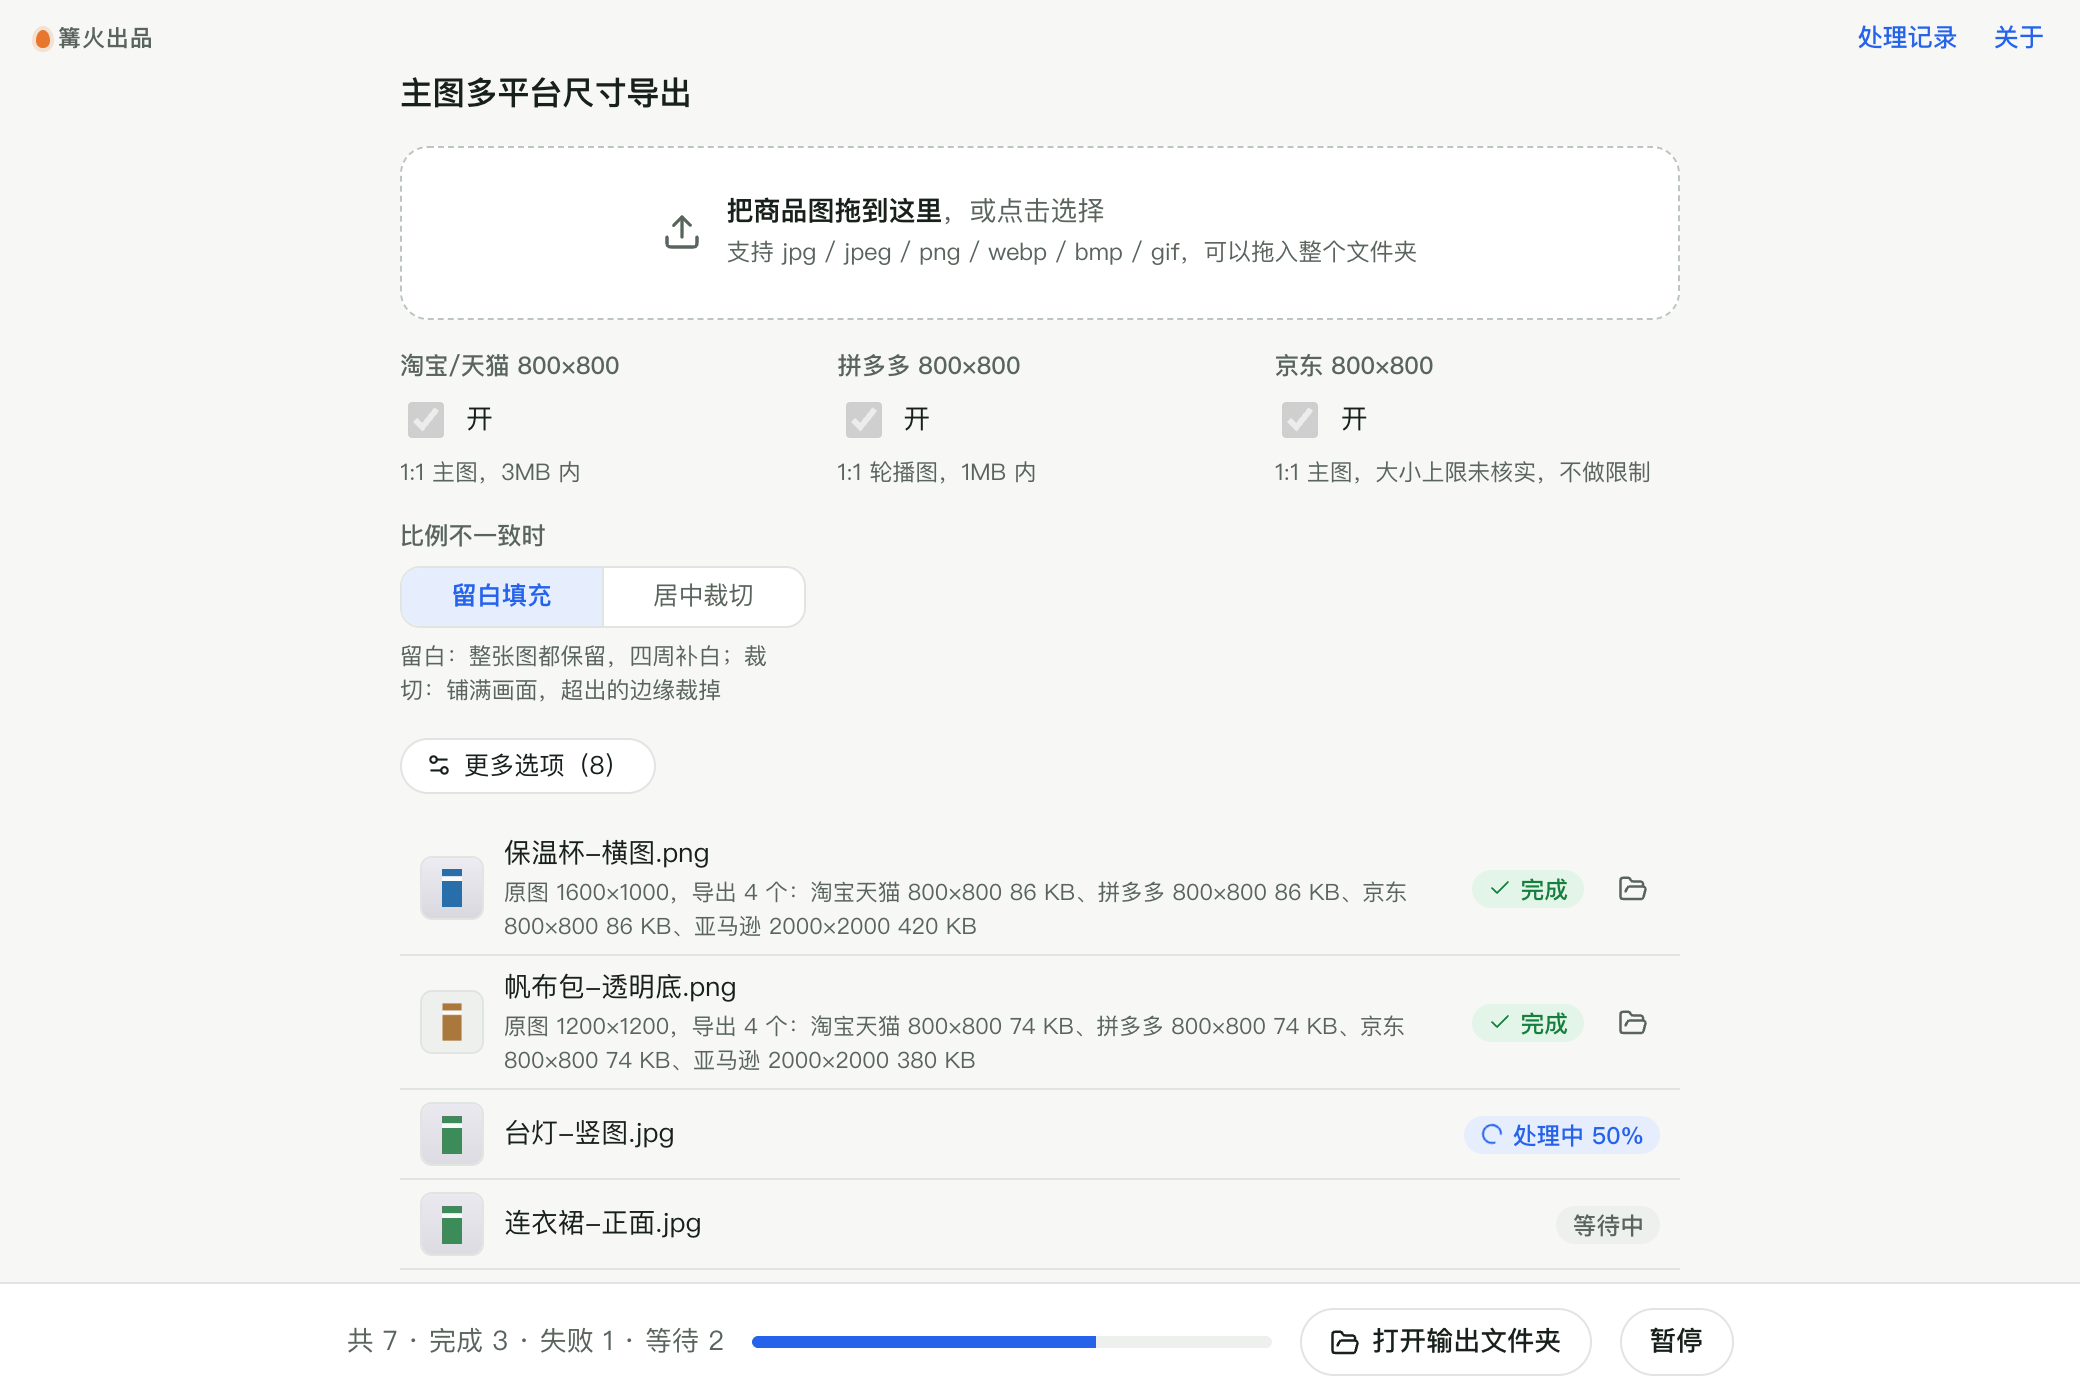
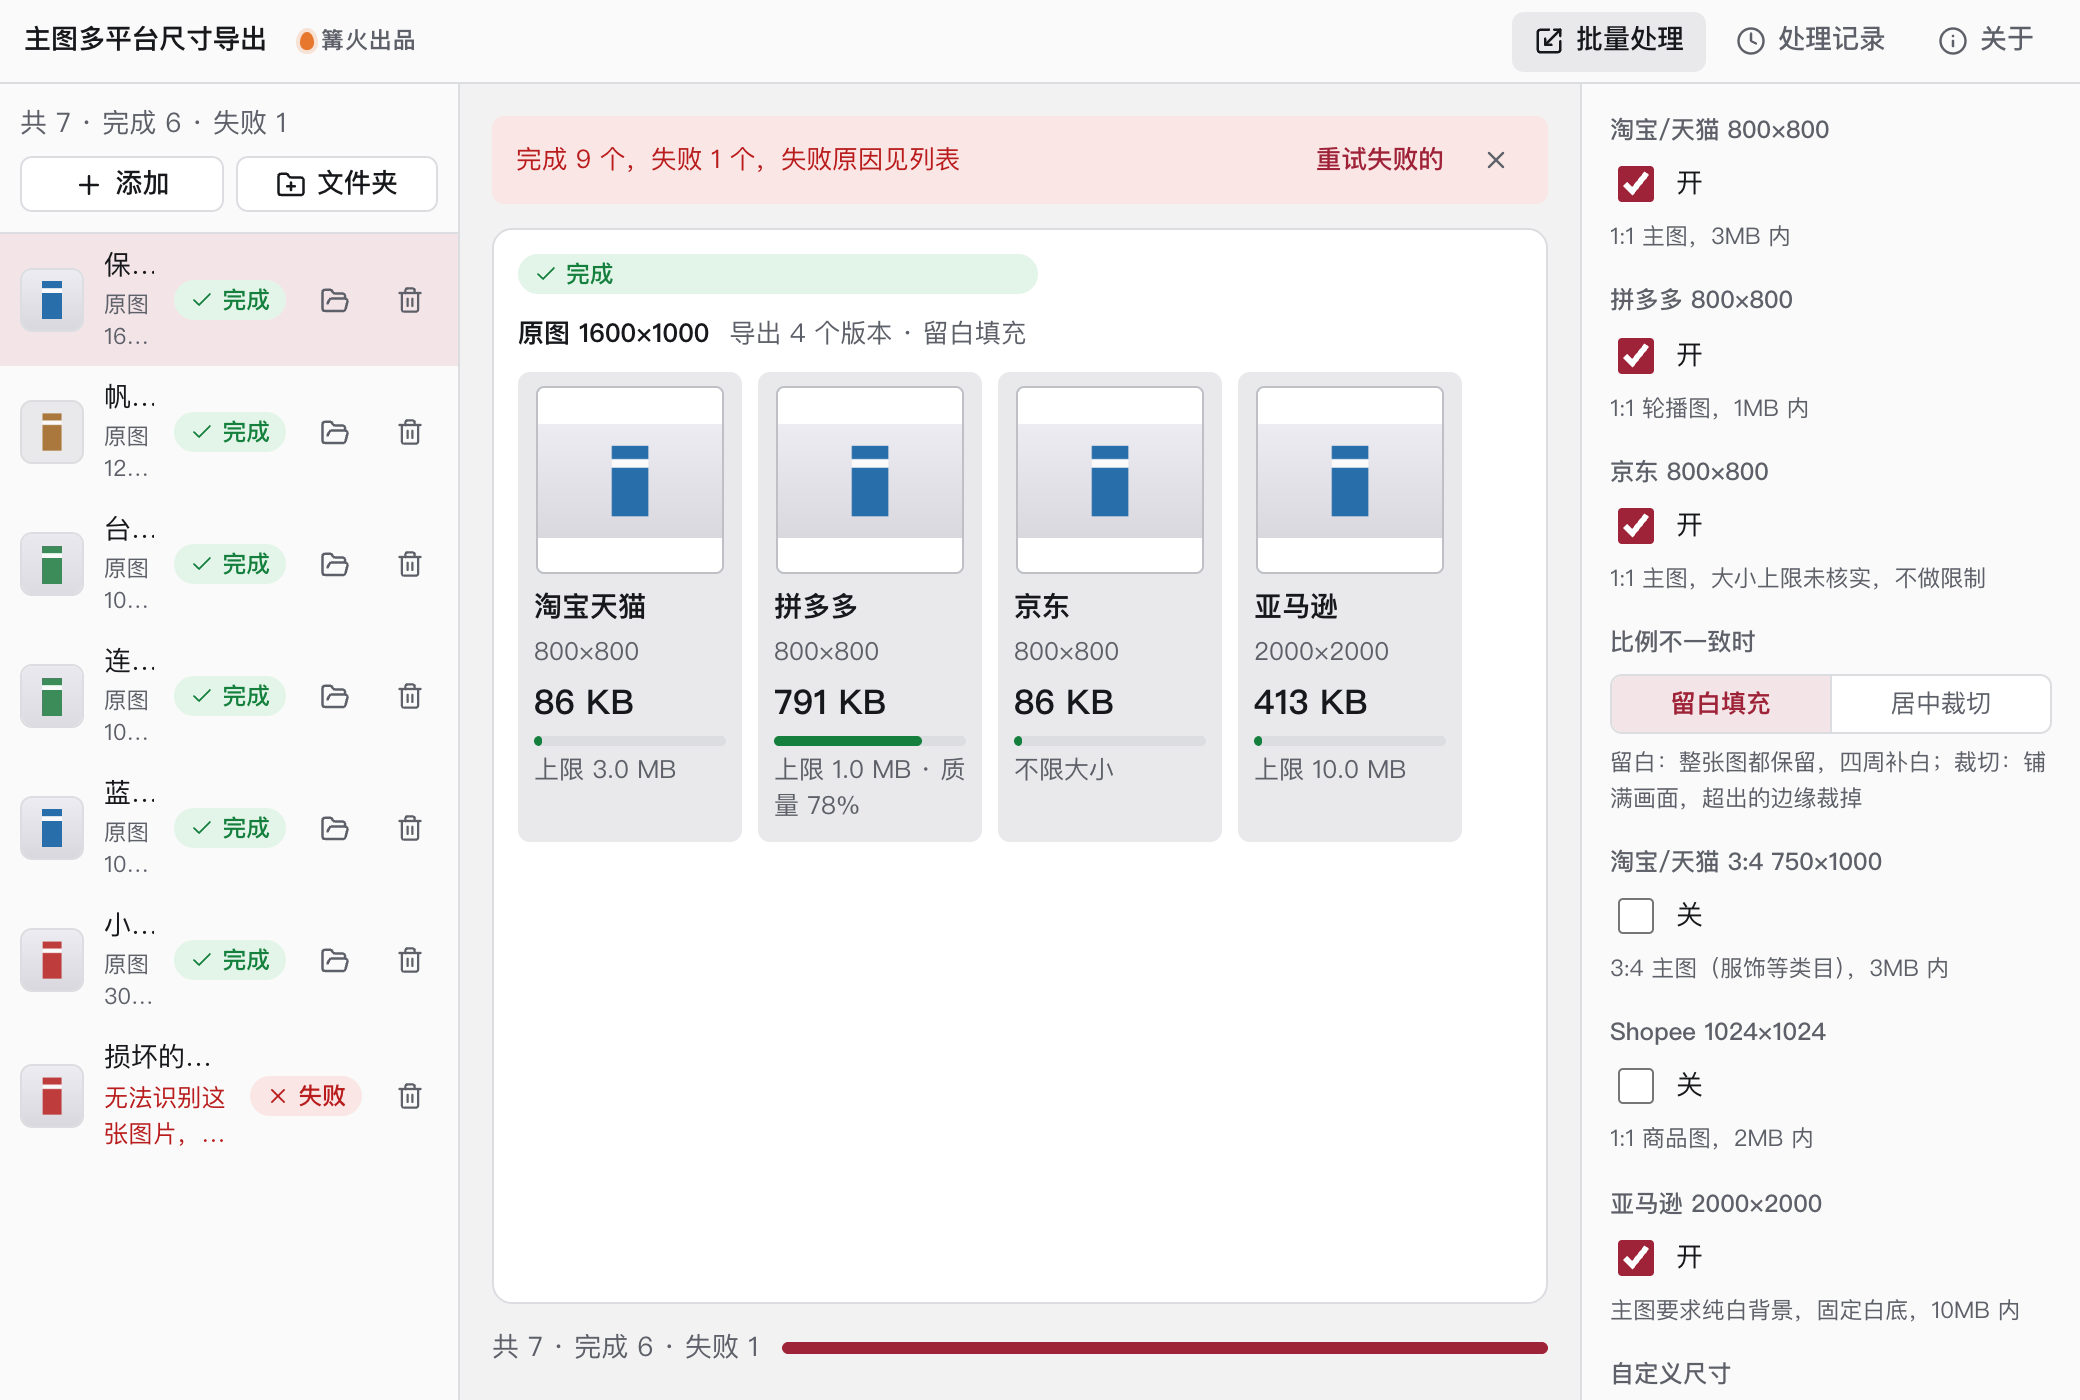
打磨界面：按平台对照的结果展示、专属空状态、全中文 (0.2.0)

diff --git a/src/tool/ui.tsx b/src/tool/ui.tsx
@@ -1,0 +1,88 @@
+// 界面：空状态（一张图 → 各平台一份）和单张结果（每个平台一格：缩略图、尺寸、文件大小占上限的比例）。
+import { ArrowRight, TriangleAlert } from 'lucide-react';
+import type { InputItem, ItemResult } from '../kit/types';
+import { fileSrc } from '../kit/platform';
+import { PRESETS, formatBytes } from './core';
+import './tool.css';
+
+/** 随结果带出的明细，只用来画结果，不写入文件 */
+export interface ResizeOut {
+  label: string;
+  w: number;
+  h: number;
+  bytes: number;
+  /** 文件大小上限（字节），0 表示不限制 */
+  maxBytes: number;
+  /** 质量被降低时的最终质量 */
+  quality?: number;
+}
+export interface ResizeData {
+  srcW: number;
+  srcH: number;
+  fit: 'pad' | 'crop';
+  white: boolean;
+  outs: ResizeOut[];
+  upscaled: boolean;
+}
+
+const BOX = 92;
+const frame = (w: number, h: number, box = BOX) => {
+  const k = box / Math.max(w, h);
+  return { width: Math.round(w * k), height: Math.round(h * k) };
+};
+
+export function Empty() {
+  return (
+    <div className="mr-empty">
+      <div className="mr-empty-hd">
+        <h2>一张主图，各平台尺寸一次出齐</h2>
+        <p>按平台分文件夹导出；比例不合就留白或裁切，JPG 超过大小上限会自动降质量。全部在本机完成。</p>
+      </div>
+      <div className="mr-flow" aria-hidden="true">
+        <div className="mr-src"><span className="mr-pic" style={frame(1600, 1000, 104)} /><small>原图</small></div>
+        <ArrowRight size={20} className="mr-arrow" />
+        <div className="mr-tiles">
+          {PRESETS.map((p) => (
+            <div key={p.key} className="mr-tile">
+              <span className="mr-frame" style={frame(p.w, p.h, 58)}><span className="mr-pic" /></span>
+              <b>{p.key === 'taobao34' ? '淘宝天猫 3:4' : p.folder}</b>
+              <small>{p.w}×{p.h}</small>
+              <small className="mr-lim">{p.maxBytes ? `≤ ${formatBytes(p.maxBytes)}` : '不限大小'}</small>
+            </div>
+          ))}
+        </div>
+      </div>
+    </div>
+  );
+}
+
+export function ResultBody({ item, result }: { item: InputItem; result: ItemResult }) {
+  const d = result.data as ResizeData | undefined;
+  if (!d) return <p className="mr-plain">{result.summary}</p>;
+  return (
+    <div className="mr-result">
+      <div className="mr-head">
+        <b className="k-num">原图 {d.srcW}×{d.srcH}</b>
+        <span className="k-muted">导出 {d.outs.length} 个版本 · {d.fit === 'crop' ? '居中裁切' : '留白填充'}</span>
+        {d.upscaled && <span className="mr-warn"><TriangleAlert size={13} />原图偏小，已放大</span>}
+      </div>
+      <div className="mr-outs">
+        {d.outs.map((o) => {
+          const ratio = o.maxBytes ? Math.min(1, o.bytes / o.maxBytes) : 0;
+          return (
+            <div key={`${o.label}-${o.w}x${o.h}`} className="mr-out">
+              <span className="mr-frame" style={{ ...frame(o.w, o.h), background: d.white ? '#fff' : undefined }}>
+                {item.path && <img src={fileSrc(item.path)} alt="" style={{ objectFit: d.fit === 'crop' ? 'cover' : 'contain' }} />}
+              </span>
+              <b>{o.label.replace(/ \d+×\d+$/, '')}</b>
+              <small className="k-num">{o.w}×{o.h}</small>
+              <span className="mr-size k-num">{formatBytes(o.bytes)}</span>
+              <span className="mr-meter" title={o.maxBytes ? `上限 ${formatBytes(o.maxBytes)}` : '不限制大小'}><i style={{ width: `${Math.max(4, ratio * 100)}%` }} className={ratio > 0.9 ? 'hot' : ''} /></span>
+              <small className="k-muted">{o.maxBytes ? `上限 ${formatBytes(o.maxBytes)}` : '不限大小'}{o.quality ? ` · 质量 ${o.quality}%` : ''}</small>
+            </div>
+          );
+        })}
+      </div>
+    </div>
+  );
+}

diff --git a/src/tool/index.ts b/src/tool/index.ts
@@ -3,6 +3,7 @@ import { Scaling as ScalingAsIcon } from 'lucide-react';
 import type { BatchTool, Field, Params, RunContext } from '../kit/types';
 import { ensureDir } from '../kit/platform';
 import { loadImage } from './canvas';
+import { Empty, ResultBody, type ResizeData, type ResizeOut } from './ui';
 import { PRESETS, fitToLimit, formatBytes, outputFileName, parseCustomSizes, planOutputs } from './core';
 
 const IMAGE_EXT = ['jpg', 'jpeg', 'png', 'webp', 'bmp', 'gif'];
@@ -23,6 +24,8 @@ const tool: BatchTool = {
   type: 'media',
   mode: 'batch',
   resultView: 'list',
+  Empty,
+  ResultBody,
   concurrency: 2,
   accept: { label: '商品图', extensions: IMAGE_EXT },
   params: [
@@ -30,7 +33,7 @@ const tool: BatchTool = {
     ...presetFields.slice(0, 3),
     fitField,
     ...presetFields.slice(3),
-    { key: 'custom', label: '自定义尺寸', type: 'text', default: '', placeholder: '例如 1200x1200, 750x1000，不需要就留空', help: '多个尺寸用逗号隔开，导出到「自定义尺寸」文件夹' },
+    { key: 'custom', label: '自定义尺寸', type: 'text', default: '', placeholder: '例如 1200×1200, 750×1000，不需要就留空', help: '多个尺寸用逗号隔开，导出到「自定义尺寸」文件夹' },
     { key: 'format', label: '输出格式', type: 'segment', options: [['jpg', 'JPG'], ['png', 'PNG']], default: 'jpg', help: '各平台主图一般都收 JPG，文件也更小' },
     { key: 'bg', label: '空白处', type: 'segment', options: [['white', '白色'], ['transparent', '透明']], default: 'white', when: (p) => p.format === 'png', help: '亚马逊主图始终用白底' },
     { key: 'limit', label: '文件大小上限', type: 'select', options: [['preset', '按平台要求'], ['0', '不限制'], ['500', '500 KB'], ['1024', '1 MB'], ['2048', '2 MB'], ['3072', '3 MB']], default: 'preset', help: '超过上限会逐步降低 JPG 质量；「按平台要求」时自定义尺寸不限制' },
@@ -50,6 +53,7 @@ const tool: BatchTool = {
       if (Math.min(img.w, img.h) < 100) throw new Error(`原图只有 ${img.w}×${img.h}，太小了，放大后会很模糊，请换一张清晰的原图`);
       ctx.progress(0.1);
       const done: string[] = [];
+      const outs: ResizeOut[] = [];
       const failed: string[] = [];
       let first = '';
       let upscaled = false;
@@ -75,12 +79,14 @@ const tool: BatchTool = {
         const path = await ctx.join(dir, outputFileName(item.name, pl, format));
         await ctx.writeFile(path, r.data);
         first ||= path;
+        outs.push({ label: pl.label, w: pl.w, h: pl.h, bytes: r.data.length, maxBytes: pl.maxBytes, quality: format === 'jpg' && r.quality < (Number(p.quality) || 90) ? r.quality : undefined });
         done.push(`${pl.label} ${formatBytes(r.data.length)}${format === 'jpg' && r.quality < (Number(p.quality) || 90) ? `（质量降到 ${r.quality}%）` : ''}`);
         ctx.progress(0.1 + (0.9 * (i + 1)) / plans.length);
       }
       if (failed.length) throw new Error(`${done.length ? `已导出 ${done.length} 个；` : ''}${failed.join('；')}`);
       const tail = upscaled ? '。注意：原图比部分目标尺寸小，已放大，可能不够清晰' : '';
-      return { outputPath: first, preview: first, summary: `原图 ${img.w}×${img.h}，导出 ${done.length} 个：${done.join('、')}${tail}` };
+      const data: ResizeData = { srcW: img.w, srcH: img.h, fit: p.fit === 'crop' ? 'crop' : 'pad', white: format === 'jpg' || p.bg !== 'transparent', outs, upscaled };
+      return { outputPath: first, preview: first, summary: `原图 ${img.w}×${img.h}，导出 ${done.length} 个：${done.join('、')}${tail}`, data };
     } finally {
       img.close();
     }

diff --git a/src/tool/tool.css b/src/tool/tool.css
@@ -1,0 +1,33 @@
+/* 主图多平台尺寸导出：类名统一以 mr- 开头，只用 kit.css 的变量 */
+.mr-empty { display: flex; flex-direction: column; gap: 20px; padding: 24px 22px; background: var(--surface); border: 1px solid var(--line); border-radius: var(--radius-lg); }
+.mr-empty-hd h2 { margin: 0 0 6px; font-size: 1.4em; line-height: 1.3; color: var(--ink); }
+.mr-empty-hd p { margin: 0; color: var(--muted); line-height: 1.6; }
+.mr-flow { display: flex; align-items: center; gap: 14px; flex-wrap: wrap; }
+.mr-src, .mr-tile { display: flex; flex-direction: column; align-items: center; gap: 3px; }
+.mr-src small, .mr-tile small { color: var(--muted); font-size: 12.5px; }
+.mr-tile b { font-size: 13px; color: var(--ink); font-weight: 600; }
+.mr-tile .mr-lim { color: var(--primary); font-weight: 600; }
+.mr-arrow { color: var(--primary); flex: none; }
+.mr-tiles { display: flex; gap: 12px; flex-wrap: wrap; flex: 1; min-width: 0; }
+.mr-tile { min-width: 74px; }
+.mr-tile .mr-frame { width: 58px; height: 58px; display: flex; align-items: center; justify-content: center; background: transparent; border: 0; }
+.mr-pic { display: block; background: linear-gradient(135deg, var(--primary), color-mix(in srgb, var(--primary) 45%, var(--surface))); border-radius: 4px; }
+.mr-src .mr-pic { box-shadow: 0 4px 12px rgb(0 0 0 / .14); }
+.mr-tile .mr-frame .mr-pic { width: 100%; height: 100%; }
+.mr-tile .mr-frame { }
+.mr-tile .mr-frame[style] { box-shadow: 0 0 0 1.5px var(--line-strong); border-radius: 4px; }
+
+.mr-result { display: flex; flex-direction: column; gap: 10px; width: 100%; min-width: 0; }
+.mr-head { display: flex; align-items: center; gap: 10px; flex-wrap: wrap; font-size: 13px; }
+.mr-warn { display: inline-flex; align-items: center; gap: 4px; padding: 2px 8px; border-radius: 999px; background: var(--warn-soft); color: var(--warn); font-weight: 600; }
+.mr-outs { display: flex; gap: 8px; flex-wrap: wrap; }
+.mr-out { display: flex; flex-direction: column; align-items: flex-start; gap: 3px; width: 112px; padding: 8px; background: var(--chip); border-radius: var(--radius); }
+.mr-out b { font-size: 14px; color: var(--ink); }
+.mr-out small { font-size: 12.5px; color: var(--muted); }
+.mr-out .mr-frame { align-self: center; display: block; overflow: hidden; border-radius: 3px; box-shadow: 0 0 0 1px var(--line-strong); background: var(--surface); margin-bottom: 4px; }
+.mr-out .mr-frame img { display: block; width: 100%; height: 100%; }
+.mr-size { font-size: 17px; font-weight: 700; color: var(--ink); }
+.mr-meter { display: block; width: 100%; height: 5px; border-radius: 3px; background: var(--line); overflow: hidden; }
+.mr-meter i { display: block; height: 100%; background: var(--ok); border-radius: 3px; transition: width .2s var(--ease); }
+.mr-meter i.hot { background: var(--warn); }
+.mr-plain { margin: 0; color: var(--muted); }

diff --git a/src/tool/preview.ts b/src/tool/preview.ts
@@ -1,5 +1,6 @@
 // 截图与预览用的示例数据（不会进入正式运行）
 import type { Row } from '../kit/runner';
+import type { ResizeData } from './ui';
 
 const img = (n: string) => new URL(`../../samples/${n}`, import.meta.url).href;
 const files: [string, string, number, Row['status'], string?][] = [
@@ -12,6 +13,17 @@ const files: [string, string, number, Row['status'], string?][] = [
   ['损坏的图.jpg', '小图-300.png', 21, 'err', '无法识别这张图片，可能已损坏或格式不受支持（支持 JPG、PNG、WebP、BMP、GIF）'],
 ];
 
+const MB = 1024 * 1024;
+const outs = (kb: number, small = false): ResizeData => ({
+  srcW: small ? 300 : 1600, srcH: small ? 300 : 1000, fit: 'pad', white: true, upscaled: small,
+  outs: [
+    { label: '淘宝天猫 800×800', w: 800, h: 800, bytes: kb * 1024, maxBytes: 3 * MB },
+    { label: '拼多多 800×800', w: 800, h: 800, bytes: Math.round(kb * 1024 * 9.2), maxBytes: 1 * MB, quality: 78 },
+    { label: '京东 800×800', w: 800, h: 800, bytes: kb * 1024, maxBytes: 0 },
+    { label: '亚马逊 2000×2000', w: 2000, h: 2000, bytes: Math.round(kb * 1024 * 4.8), maxBytes: 10 * MB },
+  ],
+});
+
 export const rows = (state: string): Row[] =>
   state === 'empty' ? [] : files.map(([name, sample, size, status, text], i) => {
     const st = state === 'done' && status !== 'err' ? 'ok' : status;
@@ -20,7 +32,7 @@ export const rows = (state: string): Row[] =>
       status: st,
       progress: st === 'run' ? 0.5 : st === 'ok' ? 1 : 0,
       error: st === 'err' ? text : undefined,
-      result: st === 'ok' ? { summary: text ?? '原图 1000×1500，导出 4 个', outputPath: '/示例/输出/淘宝天猫', preview: img(sample) } : undefined,
+      result: st === 'ok' ? { summary: text ?? '原图 1000×1500，导出 4 个', outputPath: '/示例/输出/淘宝天猫', preview: img(sample), data: outs(name.startsWith('小图') ? 31 : 86 - i * 3, name.startsWith('小图')) } : undefined,
     };
   });
 

diff --git a/src/tool/core.ts b/src/tool/core.ts
@@ -40,7 +40,7 @@ export function parseCustomSizes(text: string): Size[] {
   const out: Size[] = [];
   for (const p of parts) {
     const m = /^(\d{2,5})\s*[x×X*]\s*(\d{2,5})$/.exec(p);
-    if (!m) throw new Error(`自定义尺寸「${p}」看不懂，请写成 宽x高，例如 1200x1200，多个用逗号隔开`);
+    if (!m) throw new Error(`自定义尺寸「${p}」看不懂，请写成 宽x高，例如 1200×1200，多个用逗号隔开`);
     const w = Number(m[1]);
     const h = Number(m[2]);
     if (w < 50 || h < 50 || w > 8000 || h > 8000) throw new Error(`自定义尺寸「${p}」超出范围，宽和高需要在 50 到 8000 像素之间`);

diff --git a/CHANGELOG.md b/CHANGELOG.md
@@ -1,5 +1,11 @@
 # 更新记录
 
+## 0.2.0
+
+- 结果展示重做：每张图处理完，按平台摆开一排对照，显示缩略图、尺寸、文件大小和占上限的进度条，降过质量、被放大会标出来。
+- 空状态改为「一张原图 → 各平台版本」的示意，写明各平台尺寸和大小上限。
+- 换成左列表、右预览的版式，主色改为酒红；自定义尺寸的示例和提示改用乘号。
+
 ## 0.1.0
 
 - 首个版本。
